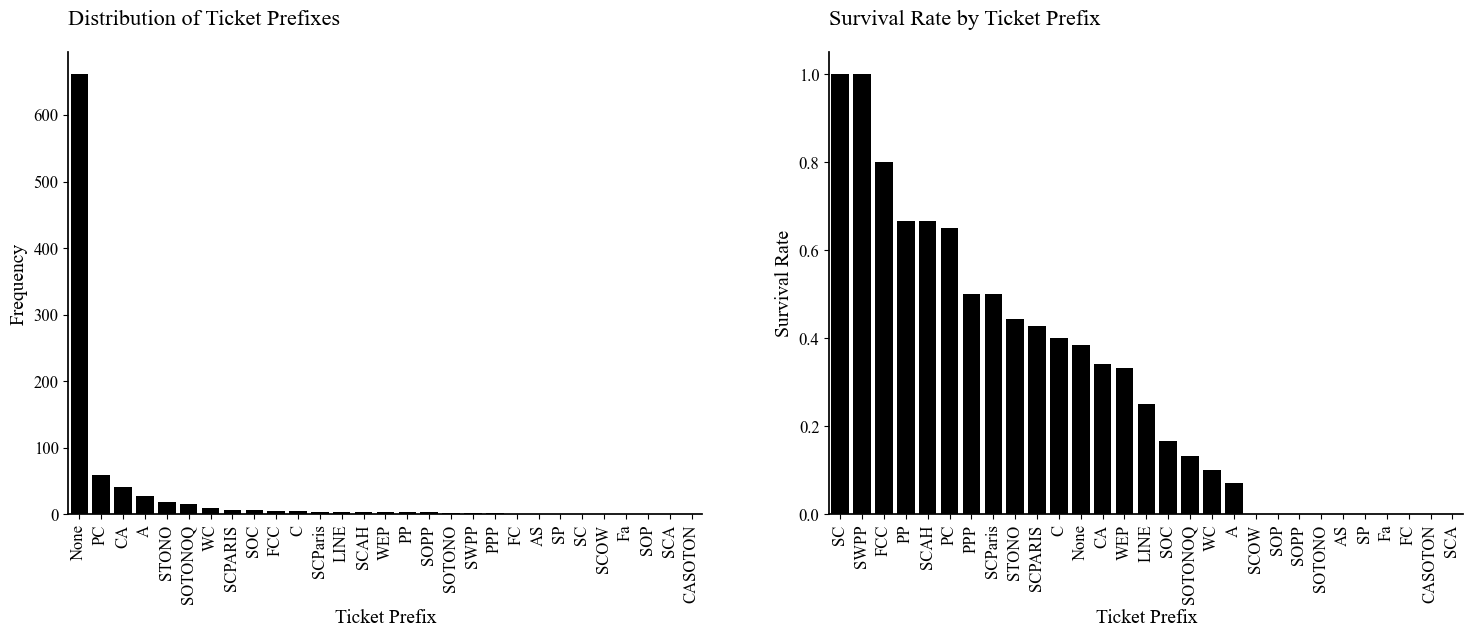
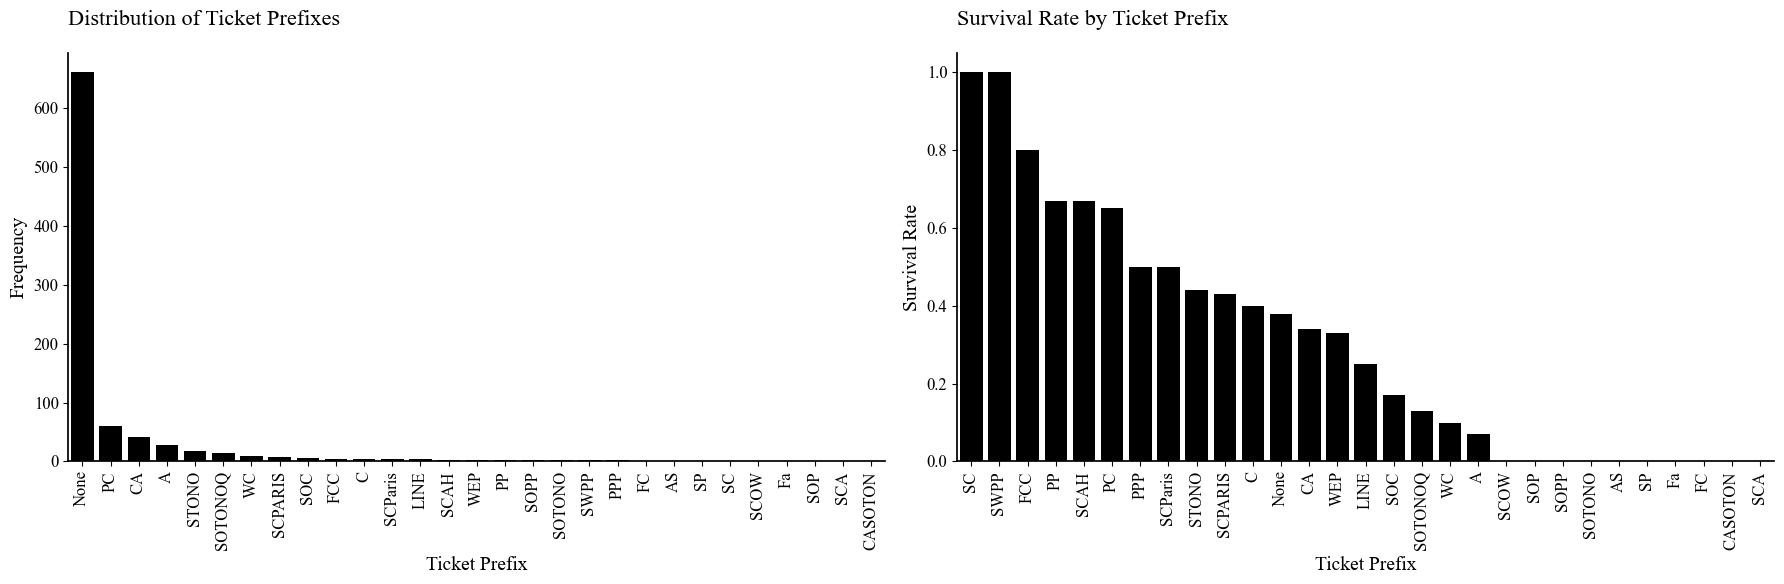
init multiple factor analysis

diff --git a/_posts/2024-02-25-titanic-project-machine-learning-from-disaster.md b/_posts/2024-02-25-titanic-project-machine-learning-from-disaster.md
@@ -580,6 +580,8 @@ plt.title('Survival Rate by Ticket Prefix')
 plt.ylabel('Survival Rate')
 plt.xlabel('Ticket Prefix')
 plt.xticks(rotation=90)
+
+plt.tight_layout()
 plt.show()
 ```
 
@@ -609,4 +611,26 @@ plt.show()
 
 ### 双因素或多因素分析
 
-该部分分析主要是分析特征之间的相关性，探索特征与目标变量（生存情况）之间的关系。可以采用相关系数矩阵、热力图、点图和箱型图等方式呈现分析结果。
+该部分分析的主要目的是分析特征之间的相关性，探索特征与目标变量（生存情况）之间的关系，帮助我们理解特征之间的相互作用以及它们是如何共同影响泰坦尼克号乘客生存率。可以采用相关系数矩阵、热力图、点图和箱型图等方式呈现分析结果。其实，在分析 `Name` 和 `Ticket` 时，我们已经分析了其与目标变量的关系。下面试着从如下几个方面做更为深入的分析。
+
+1. **性别和船舱等级（Sex and Pclass）**：
+   - 分析不同船舱等级中男性和女性的生存率。
+   - 探讨船舱等级是否影响性别与生存率之间的关系。
+2. **年龄、性别和生存率（Age, Sex, and Survived）**：
+   - 分析不同性别和年龄组的生存率。
+   - 研究儿童（如定义为16岁以下）与成人在不同性别下的生存率差异。
+3. **票价、船舱等级和生存率（Fare, Pclass, and Survived）**：
+   - 探讨票价和船舱等级如何共同影响生存率。
+   - 检查高票价是否与高生存率相关，以及这种关系是否在所有船舱等级中都成立。
+4. **头衔、性别和年龄（Title, Sex, and Age）**：
+   - 分析不同头衔对应的年龄分布和性别比例。
+   - 研究不同头衔的乘客生存率是否受性别和年龄的影响。
+5. **家庭规模、性别和生存率（Family Size, Sex, and Survived）**：
+   - 创建家庭规模变量（SibSp + Parch），分析家庭规模对生存率的影响。
+   - 研究家庭规模是否对男性和女性乘客的生存率有不同的影响。
+6. **登船港口、船舱等级和生存率（Embarked, Pclass, and Survived）**：
+   - 分析不同登船港口的乘客在不同船舱等级下的生存率。
+   - 探讨登船港口是否与船舱等级和生存率之间存在交互作用。
+7. **票号前缀、船舱等级和生存率（Ticket Prefix, Pclass, and Survived）**：
+   - 分析不同票号前缀的乘客在不同船舱等级下的生存率。
+   - 探讨票号前缀是否为船舱等级和生存率之间的关系提供了额外的信息。
